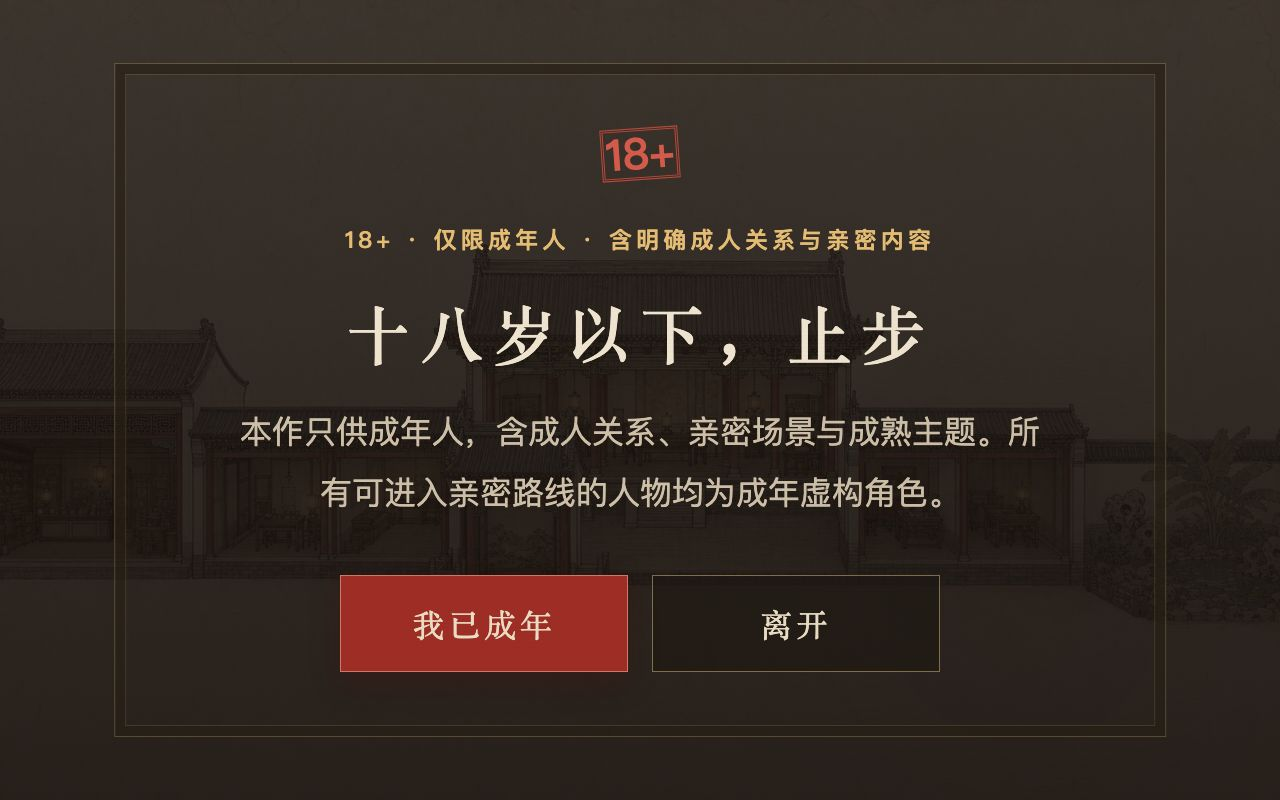
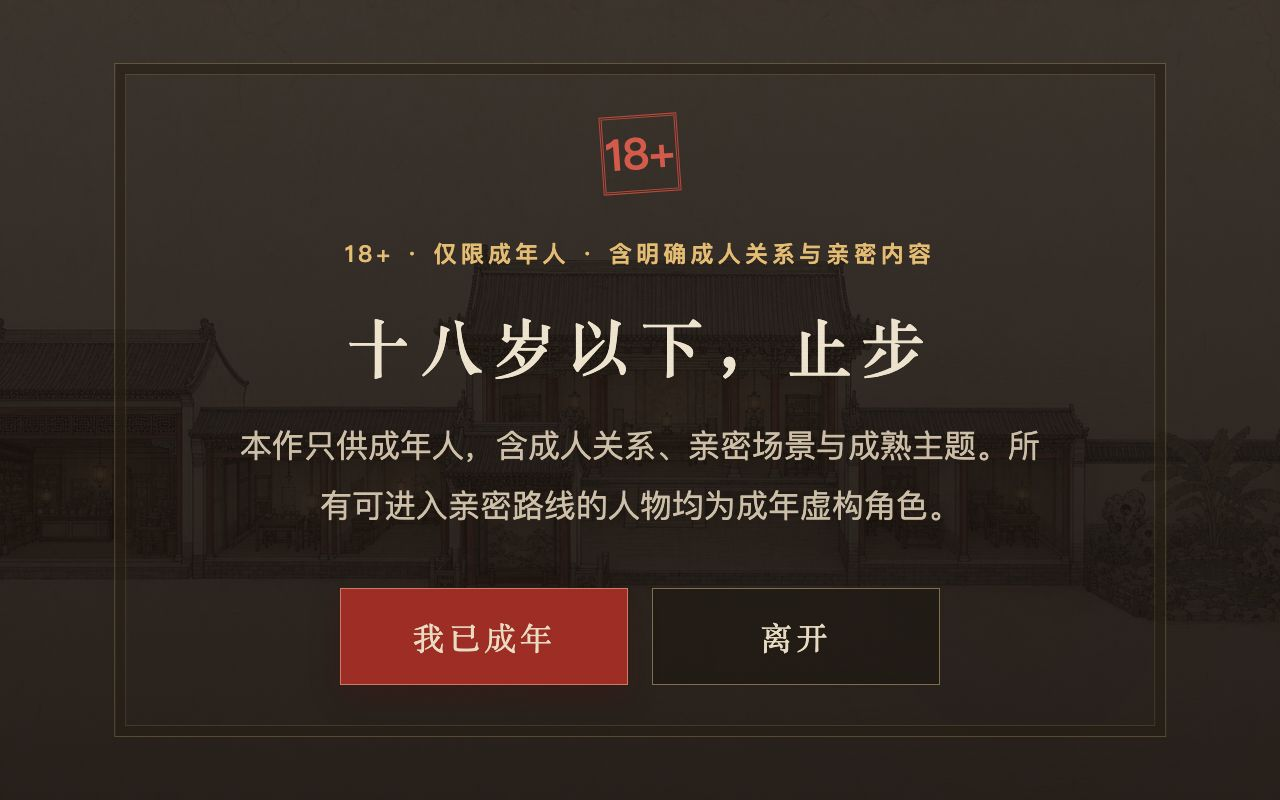
Stop buying the age-gate containment pass by crushing the 18+ seal
At 1280x800 with 200% text scale the age gate fit only because `.age-seal` is the
one shrinkable flex item: it absorbed the whole 26.5 px overflow and rendered
81.4 x 56.8 instead of square, with zero slack left. Every containment assertion
passed because they check bounding boxes only, and the committed 200% screenshot
shows the flattened rectangle. `flex: none` restores it to 83.3 x 83.3 at both
viewports, and a new aspect-ratio assertion means a containment pass can no longer
be bought by deforming a child — removing `flex: none` now fails the suite.

The long-task gate classified startup versus in-game by wall-clock (`at <= 1500`).
The 200% relayout, extra screenshot and 1920x1080 resize this branch added before
the first click pushed the boot task from ~600 ms to ~980 ms, halving the headroom
to a threshold that has nothing to do with what it measures. It now uses the
`phase` the observer already records: `#game-shell` exists only in-game, so the
attribution follows the player's actual position rather than drifting whenever the
test itself grows a step. In-game long tasks are now 0 on both clocks.

`evidence.json` was byte-identical to `evidence-normal.json`. The two per-run files
are strictly more informative, so the duplicate and the extra write are gone.

`RUN.md` still claimed 133 passes, superseded transition numbers and a single
evidence file; `QA_REPORT.md` credited the boot long task to a local-load gate that
[…]

diff --git a/examples/jin-ping-mei/build/app/css/style.css b/examples/jin-ping-mei/build/app/css/style.css
@@ -113,6 +113,8 @@ button:focus-visible { outline: 3px solid var(--gold-bright); outline-offset: 3p
 .age-seal {
   width: 78px;
   height: 78px;
+  /* 唯一可压缩的 flex 子项：不锁死会在 200% 文字缩放下被压扁成矩形来换取"不溢出"。 */
+  flex: none;
   display: grid;
   place-content: center;
   margin-bottom: 1.4rem;

diff --git a/examples/jin-ping-mei/build/app/test/qa_browser.py b/examples/jin-ping-mei/build/app/test/qa_browser.py
@@ -146,6 +146,13 @@ def check_scaled_age_gate(page, label: str) -> None:
         body_copy.evaluate("e => e.scrollWidth <= e.clientWidth"),
         f"{label} 200% 文字缩放时年龄说明内部无横向溢出",
     )
+    # 印章是年龄门里唯一可压缩的 flex 子项。只断言 bounding box 不越界的话，"不溢出"可以靠把
+    # 印章压成矩形买到——那不是修好了布局，是把失败挪到了看不见的地方。
+    seal = page.locator(".age-gate .age-seal").bounding_box()
+    check(
+        bool(seal and abs(seal["width"] - seal["height"]) <= max(2.0, seal["width"] * 0.06)),
+        f"{label} 200% 文字缩放时 18+ 印章未被压扁（{seal['width']:.1f}×{seal['height']:.1f}）" if seal else f"{label} 200% 文字缩放时 18+ 印章可测量",
+    )
 
 
 # 本作是纯 DOM/CSS 视觉小说：全项目零 requestAnimationFrame、零 canvas，没有逐帧渲染循环。
@@ -494,14 +501,15 @@ def main() -> int:
     )
     check(worst_transition <= TRANSITION_BUDGET_MS,
           f"最重转场 点击→绘制 {worst_transition} ms ≤ {TRANSITION_BUDGET_MS} ms")
-    # 长任务按归因分档：启动期（首屏资产解码，已由 local_load_ms 门单独裁决）与
-    # 游戏中（玩家正在操作时的主线程阻塞，才是真卡顿）。
-    boot = [t for t in longtasks if t["at"] <= 1500]
-    ingame = [t for t in longtasks if t["at"] > 1500]
+    # 长任务按归因分档：启动期（年龄门/首屏，玩家还没进入游戏）与游戏中（玩家正在操作时的
+    # 主线程阻塞，才是真卡顿）。用观察器已记录的 phase 归因，不用挂钟时间——挂钟阈值会随
+    # 测试自身新增的步骤漂移，把真实的游戏中卡顿挪进"启动期"豁免里。
+    boot = [t for t in longtasks if t["phase"] == "?"]
+    ingame = [t for t in longtasks if t["phase"] != "?"]
     worst_boot = max((t["ms"] for t in boot), default=0)
     worst_ingame = max((t["ms"] for t in ingame), default=0)
     if boot:
-        print(f"  启动期长任务: {sorted((t['ms'] for t in boot), reverse=True)}（首屏资产解码，见 local_load_ms 门）")
+        print(f"  启动期长任务: {sorted((t['ms'] for t in boot), reverse=True)}（年龄门/首屏，玩家尚未进入游戏）")
     check(worst_ingame < STALL_MS,
           f"游戏中无 >{STALL_MS:.0f} ms 主线程长任务（最坏 {worst_ingame} ms，共 {len(ingame)} 次 >50 ms）")
 
@@ -535,11 +543,6 @@ def main() -> int:
     }
     run_evidence = SHOTS / ("evidence-normal.json" if SLOW else "evidence-fast.json")
     run_evidence.write_text(json.dumps(evidence, ensure_ascii=False, indent=2) + "\n", encoding="utf-8")
-    if SLOW:
-        (SHOTS / "evidence.json").write_text(
-            json.dumps(evidence, ensure_ascii=False, indent=2) + "\n",
-            encoding="utf-8",
-        )
     print(f"\n控制台错误: {len(errors)}；资源失败: {len(network_errors)}")
     print(f"包体: {size_bytes/1048576:.2f} MB；外部域: {external or '无'}")
     print(f"结果: {passed} 通过, {failed} 失败；证据 → {SHOTS}")

diff --git a/examples/jin-ping-mei/qa/QA_REPORT.md b/examples/jin-ping-mei/qa/QA_REPORT.md
@@ -5,7 +5,7 @@
 - 自动化工程验收：**`PASS`**（2026-07-28 复审：F1、F2 两条 `major` 已修复并加断言，
   证据路径由 `/tmp` 改落工作区内 `qa/evidence/`，零 `blocker`、零 `major`）
 - 2026-08-01 可读性复审：年龄门新增 200% 文字缩放与装饰框边界门禁；加速和正常速度路径均
-  **165 通过 / 0 失败**，覆盖 `1280×800` 与 `1920×1080` 两个视口，控制台与资源错误均为 0。
+  **167 通过 / 0 失败**，覆盖 `1280×800` 与 `1920×1080` 两个视口，控制台与资源错误均为 0。
 - 裁决沿革：2026-07-25 记 `PASS 0/0/0`（已作废）→ 2026-07-26 复审记 `FAIL`
   （`/tmp` 证据失效 + 2 `major`）→ 2026-07-28 修复后记 `PASS`
 - `blocker`：0
@@ -41,7 +41,7 @@ node test/ledger.mjs
 
 python3 test/qa_browser.py
 QA_SLOW=1 python3 test/qa_browser.py
-# 两次结果均为：165 通过，0 失败
+# 两次结果均为：167 通过，0 失败
 # 控制台错误：0；关键资源失败：0
 ```
 
@@ -52,8 +52,8 @@ QA_SLOW=1 python3 test/qa_browser.py
 `qa/evidence/`，安全截图落 `qa/evidence/browser/safe/`，18+ 内部截图落受限子目录
 `qa/evidence/browser/adult/`（已 gitignore，不随仓库发布）。加速与正常速度（`QA_SLOW=1`）
 各复跑一轮，均 133 通过 / 0 失败，下表截图证据已重新生成、恢复有效。
-2026-08-01 布局修复后再次以加速和正常速度各复跑一轮，最新均为 165 通过 / 0 失败；
-原始摘要分别落在 `evidence-fast.json` 与 `evidence-normal.json`，`evidence.json` 保留为正常速度兼容副本。
+2026-08-01 布局修复后再次以加速和正常速度各复跑一轮，最新均为 167 通过 / 0 失败；
+两轮原始摘要分别落在 `evidence-fast.json` 与 `evidence-normal.json`，各自独立留存，不再另写合并副本。
 
 ## 关键不变量
 
@@ -89,9 +89,9 @@ QA_SLOW=1 python3 test/qa_browser.py
 | 缺关键 CG 失败而非灰盒回退 | 通过 | 资产加载器与缺失资产测试 |
 | 同 seed + 同选择可复现 | 通过 | 纯引擎快照比较 |
 | 目标视口无关键遮挡或溢出 | 通过 | 双视口 bounding box 断言 |
-| 首屏、转场延迟、包体达到预算 | 通过 | 30.9 ms 首屏、最重转场 8.1 ms（正常速度）、6.0 MB |
+| 首屏、转场延迟、包体达到预算 | 通过 | 25.5 ms 首屏、最重转场 38.2 ms（正常速度）、6.0 MB |
 | 无外部请求域（切片自包含） | 通过 | 全程请求域仅 `127.0.0.1:5173` |
-| 游戏中无主线程长任务 | 通过 | longtask 观测：游戏中 0 次 >50 ms；正常速度启动期 1 次 170 ms（首屏解码，由 30.9 ms 本地加载门单独约束） |
+| 游戏中无主线程长任务 | 通过 | longtask 按观察器 `phase` 归因（非挂钟时间）：玩家进入游戏后 0 次 >50 ms；年龄门/首屏各 1 次，加速 171 ms、正常速度 181 ms，均低于 200 ms 门 |
 | 最小视口文字达到可读地板 | 通过 | 功能标签 13px、正文 14px、人物原因 12px |
 | 键盘与降运动路径 | 通过 | Tab 聚焦、`prefers-reduced-motion` 断言 |
 | 静音持久化 | 通过 | UI 切换后新页面仍读取 `jpm_mute` |
@@ -133,7 +133,6 @@ QA_SLOW=1 python3 test/qa_browser.py
 - `qa/evidence/design-invariants.md`（2026-07-26 复审静态对照）
 - `qa/evidence/browser/evidence-fast.json`（2026-08-01 加速复跑）
 - `qa/evidence/browser/evidence-normal.json`（2026-08-01 正常速度复跑）
-- `qa/evidence/browser/evidence.json`（正常速度结果的兼容副本）
 - `qa/evidence/browser/safe/` 共 12 张：01_age_gate、01_age_gate_200pct_text、02_title、03_opening_choice_done、
   04_delayed_yue_morning、06_banquet_conflict、07_exclusive_ending、08_gallery_after_yue、
   09_jealousy_chain，以及 household_meng_yulou / household_sun_xuee / household_li_jiaoer

diff --git a/examples/jin-ping-mei/_progress.md b/examples/jin-ping-mei/_progress.md
@@ -26,7 +26,7 @@
   `qa/evidence/browser/`（安全帧入库；18+ 内部验收帧按 game-build 契约放受限子目录
   并经 .gitignore 排除，可由 `python3 build/app/test/qa_browser.py` 复跑重建）
 - 引擎自测：`node build/app/test/ledger.mjs` 52 项通过；
-  浏览器：加速与 `QA_SLOW=1` 正常速度各 165 项通过 / 控制台 0 报错 / 资源 0 失败；
+  浏览器：加速与 `QA_SLOW=1` 正常速度各 167 项通过 / 控制台 0 报错 / 资源 0 失败；
   原始摘要分别为 `evidence-fast.json`、`evidence-normal.json`，年龄门在 1280×800 与
   1920×1080 均覆盖 200% 文字缩放、按钮、正文和装饰框边界
 - 人工证据：第 1 轮线上反馈确认“好很多”，指出文案有 AI 味、宅中角色与内容需扩充；
